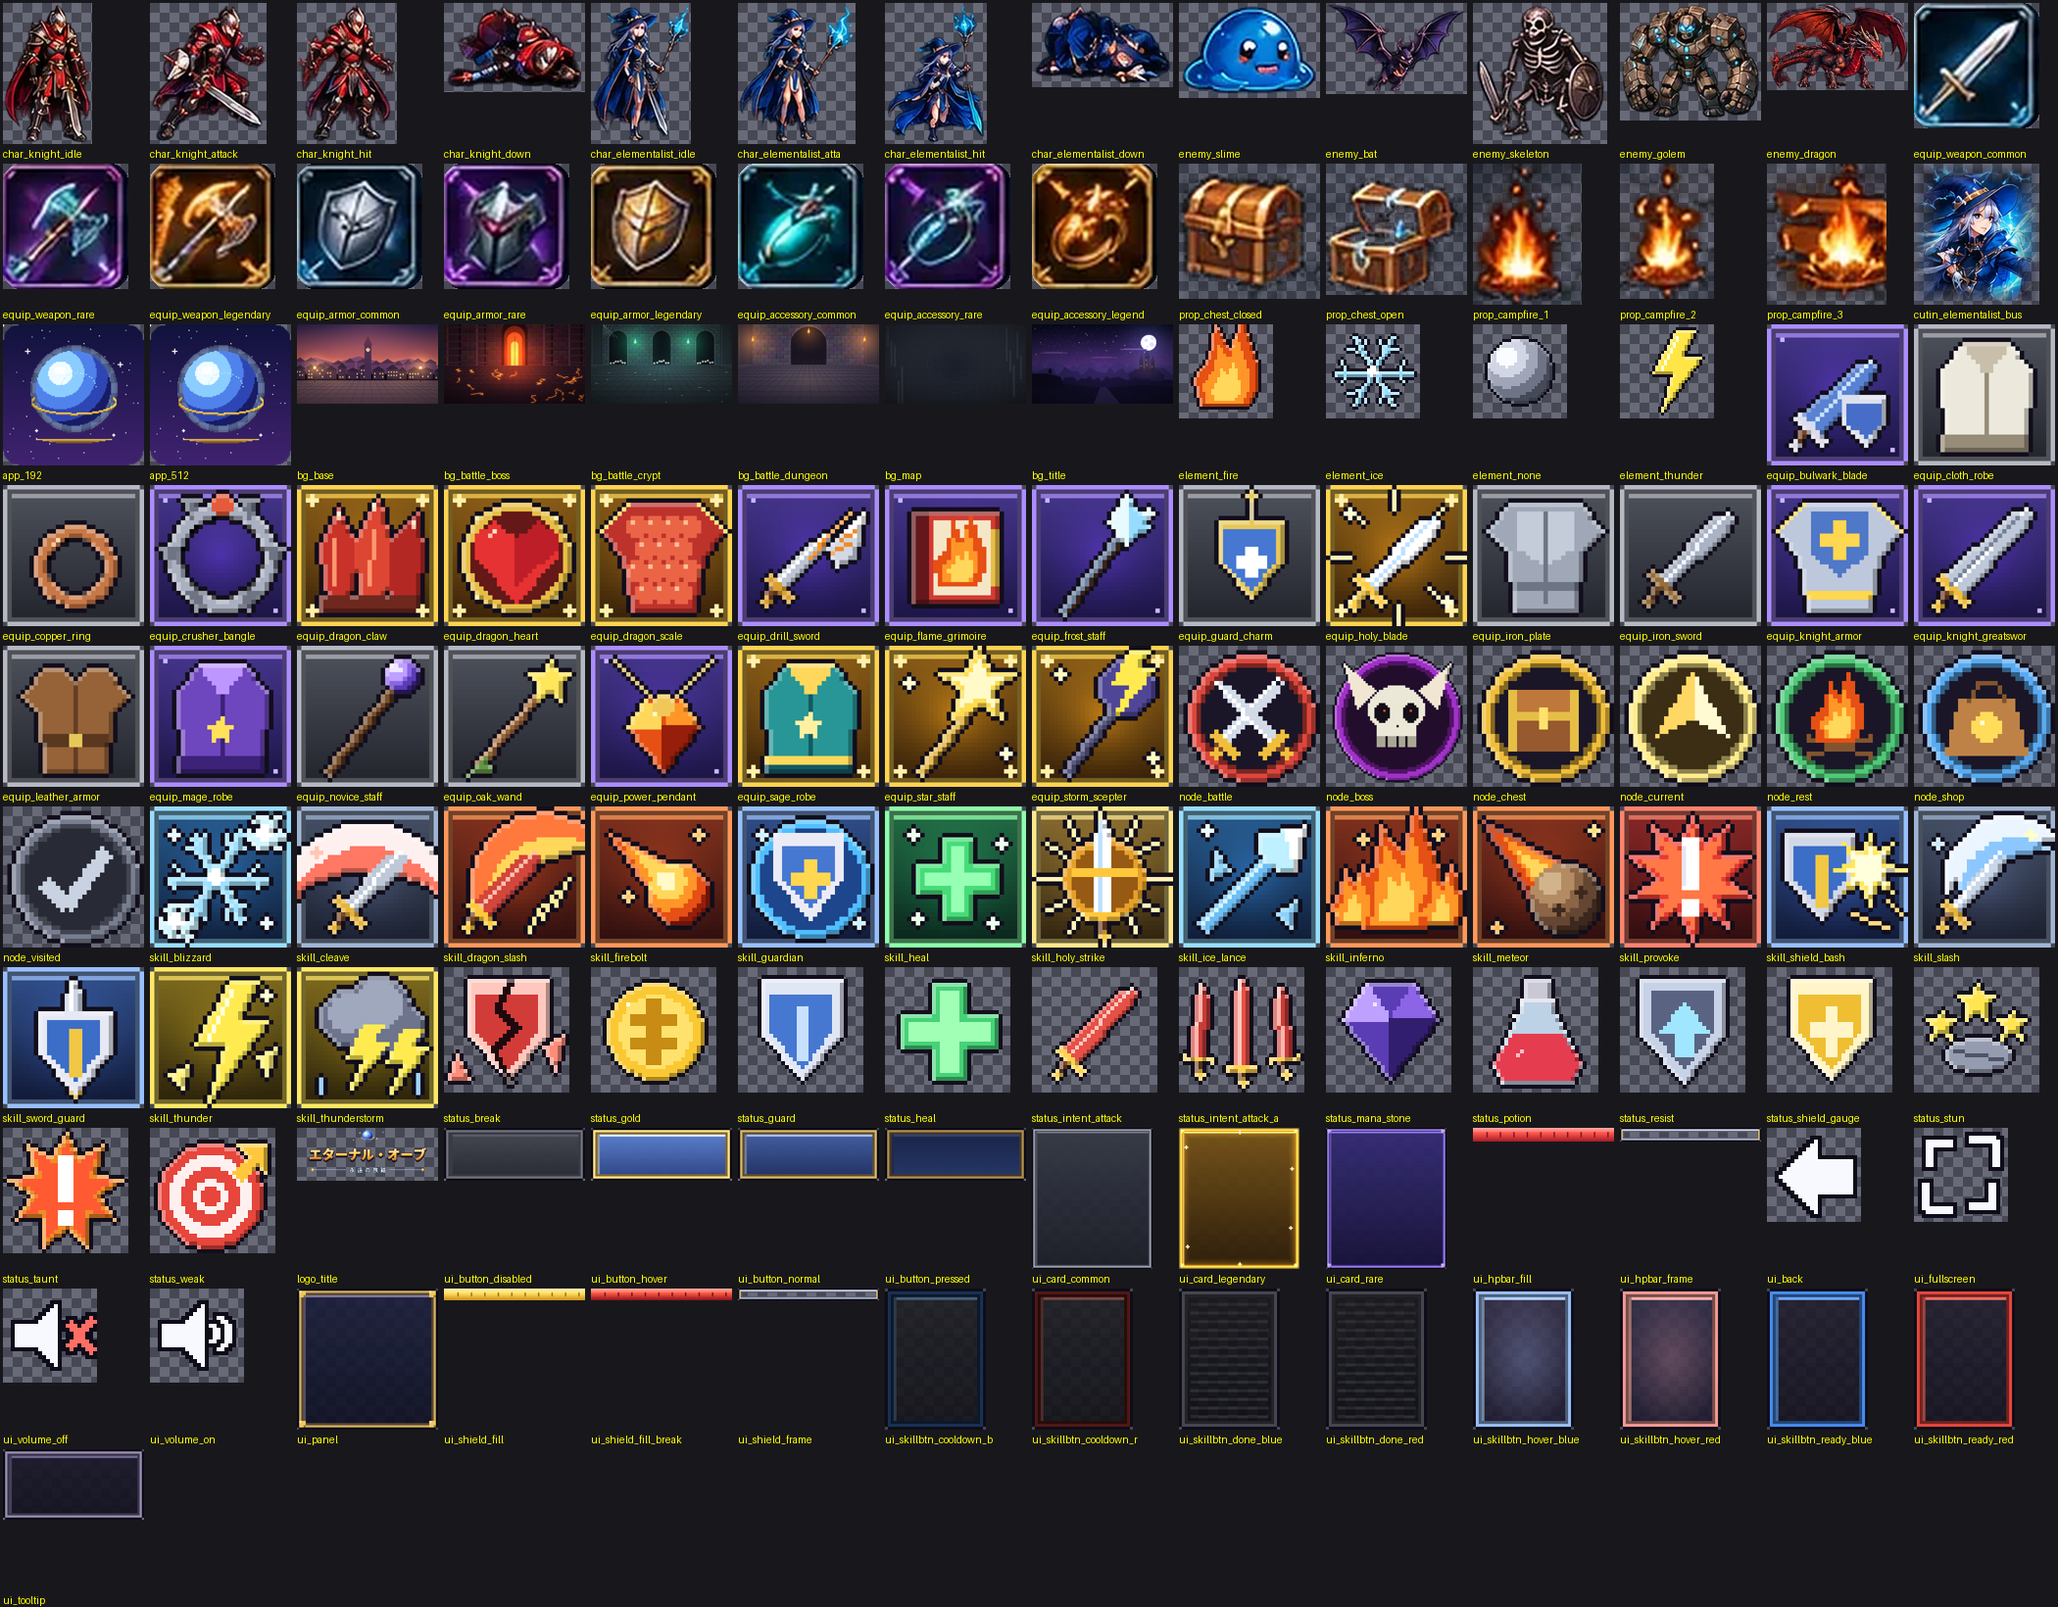
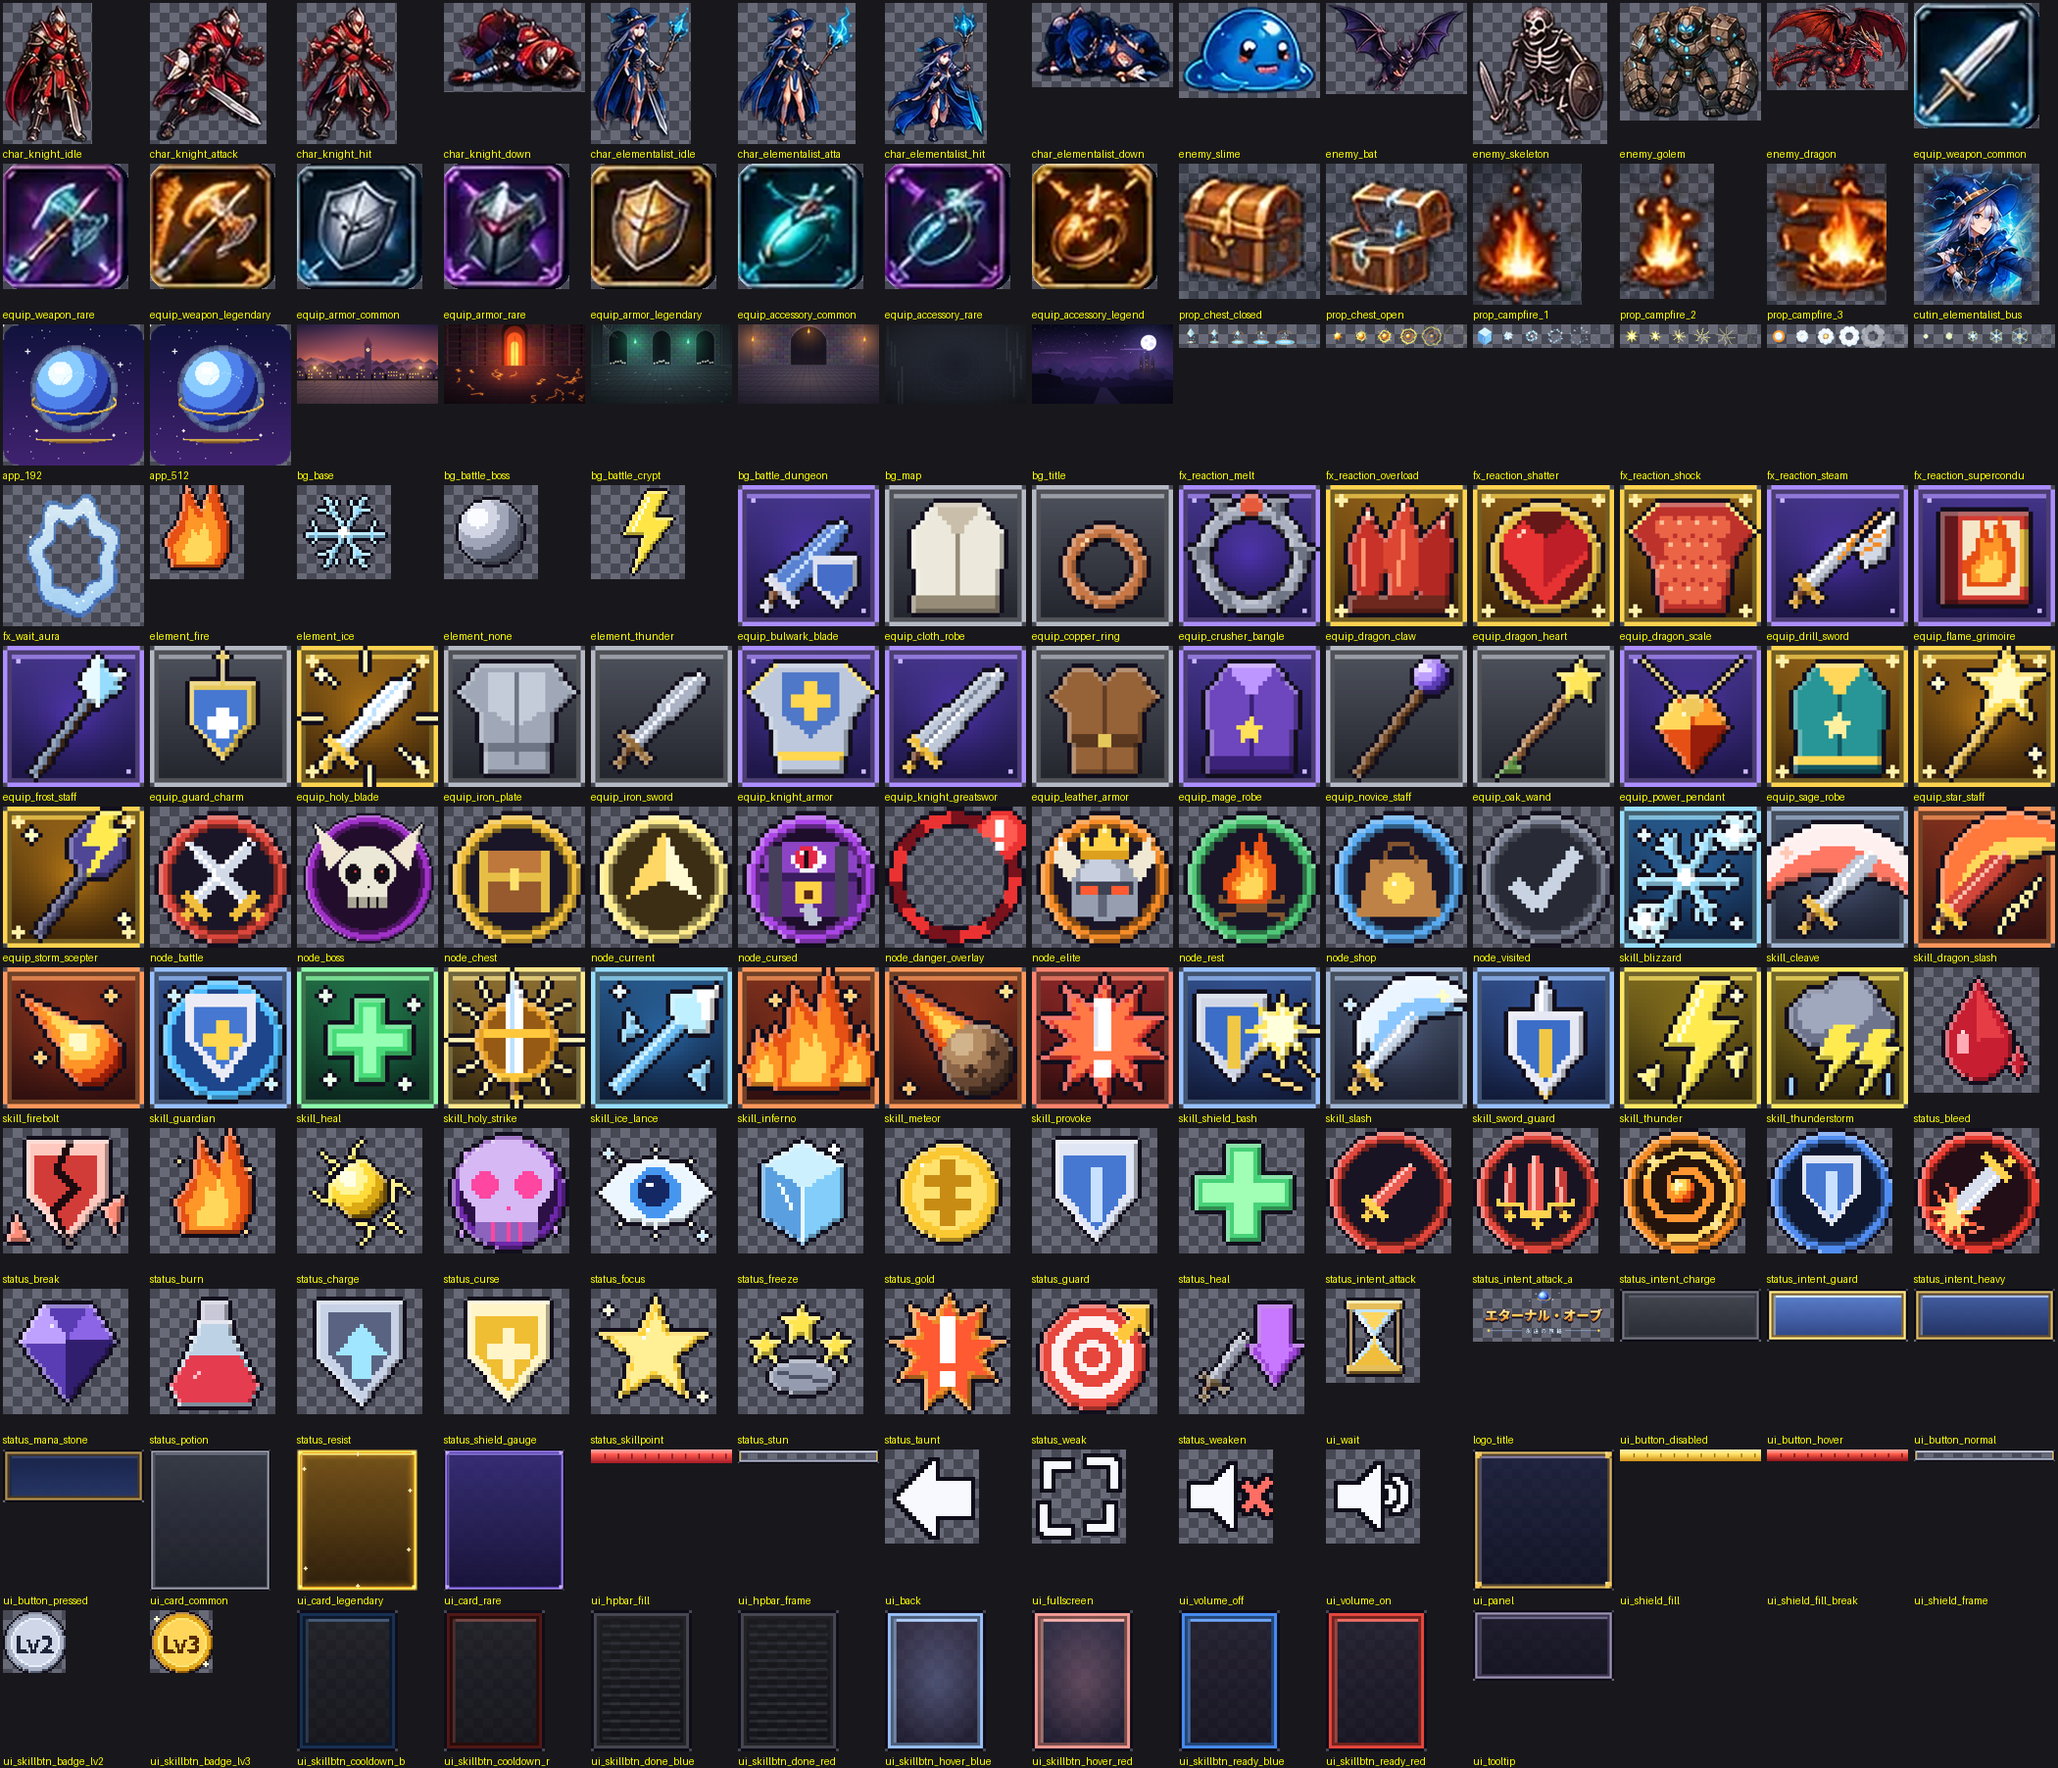
追加画像素材を反映: ノード/予告/状態/反応エフェクト/待機/Lvバッジ
Claude-Session: https://claude.ai/code/session_01PUrzdwixHQ16RLQNFRCr9D

diff --git a/src/scenes/BattleScene.ts b/src/scenes/BattleScene.ts
@@ -260,7 +260,9 @@ export class BattleScene extends Phaser.Scene {
     const h = compact() ? 34 : 28;
     const bg = this.add.graphics();
     const label = txt(this, 0, 0, '待機', compact() ? 17 : 14, '#fff', { fontStyle: 'bold' }).setOrigin(0.5);
-    const c = this.add.container(x, y, [bg, label]).setSize(w, h);
+    const waitIcon = hasImg(this, 'icon_ui_wait') ? this.add.image(-w / 2 + 16, 0, 'icon_ui_wait').setDisplaySize(h - 8, h - 8) : null;
+    if (waitIcon) label.setX(10);
+    const c = this.add.container(x, y, [bg, label, ...(waitIcon ? [waitIcon] : [])]).setSize(w, h);
     const paint = (hover: boolean) => {
       const ok = !this.busy && canWait(this.state, member);
       bg.clear();
@@ -282,6 +284,29 @@ export class BattleScene extends Phaser.Scene {
     });
     this.waitBtns.push(c);
     paint(false);
+  }
+
+  /** アイコンが一瞬ふくらんで消える */
+  private iconPop(key: string, x: number, y: number, size: number): void {
+    if (!hasImg(this, key)) return;
+    const im = this.add.image(x, y, key).setDisplaySize(size, size).setDepth(3000).setAlpha(0);
+    this.tweens.add({ targets: im, alpha: 1, y: y - 40, duration: 260, onComplete: () => this.tweens.add({ targets: im, alpha: 0, duration: 500, onComplete: () => im.destroy() }) });
+  }
+
+  /** 横並びスプライトシート(256×256×N)のエフェクトを1回再生する。画像が無ければ何もしない */
+  private playFx(key: string, x: number, y: number, scale: number): void {
+    if (!hasImg(this, key)) return;
+    const tex = this.textures.get(key);
+    const src = tex.getSourceImage() as HTMLImageElement;
+    const n = Math.max(1, Math.floor(src.width / src.height));
+    const fs = src.height;
+    for (let i = 0; i < n; i++) if (!tex.has(String(i))) tex.add(String(i), 0, i * fs, 0, fs, fs);
+    const im = this.add.image(x, y, key, '0').setScale(scale).setDepth(2700).setBlendMode(Phaser.BlendModes.ADD);
+    let f = 0;
+    this.time.addEvent({
+      delay: 70, repeat: n - 1,
+      callback: () => { im.setFrame(String(Math.min(f, n - 1))); f += 1; if (f >= n) this.time.delayedCall(70, () => im.destroy()); },
+    });
   }
 
   private doWait(member: number): void {
@@ -323,7 +348,9 @@ export class BattleScene extends Phaser.Scene {
       align: cmp ? 'center' : 'left', fontStyle: cmp ? 'bold' : 'normal', wordWrap: { width: BTN_W - 14, useAdvancedWrap: true },
     }).setOrigin(0.5, 0);
     const status = txt(this, 0, BTN_H / 2 - 16, '', 13, '#fff', { fontStyle: 'bold' }).setOrigin(0.5);
-    const c = this.add.container(x, BTN_Y, [bg, ...(icon ? [icon] : []), title, chip, chipText, cd, body, status]).setSize(BTN_W, BTN_H);
+    const badgeKey = level >= 3 ? 'ui_skillbtn_badge_lv3' : level === 2 ? 'ui_skillbtn_badge_lv2' : '';
+    const badge = badgeKey && hasImg(this, badgeKey) ? this.add.image(BTN_W / 2 - 18, -BTN_H / 2 + 18, badgeKey).setDisplaySize(32, 32) : null;
+    const c = this.add.container(x, BTN_Y, [bg, ...(icon ? [icon] : []), ...(badge ? [badge] : []), title, chip, chipText, cd, body, status]).setSize(BTN_W, BTN_H);
     c.setInteractive({ useHandCursor: true });
     const btn: SkillBtn = { member, skill: baseSkill, c, bg, status, w: BTN_W, hover: false };
     this.buttons.push(btn);
@@ -507,7 +534,8 @@ export class BattleScene extends Phaser.Scene {
     const ring = kind === 'heavy' ? 0xff2d2d : kind === 'charge' ? 0xffa23c : kind === 'guard' ? 0x6fa8ff : 0xff5c5c;
     g.lineStyle(kind === 'heavy' ? 6 : 3, ring, 1).strokeCircle(0, 0, kind === 'heavy' ? 38 : 34);
     if (kind === 'attack' || kind === 'heavy') {
-      const iconKey = it.target === 'all' ? 'icon_status_intent_attack_all' : 'icon_status_intent_attack';
+      const iconKey = kind === 'heavy' && hasImg(this, 'icon_status_intent_heavy') ? 'icon_status_intent_heavy'
+        : it.target === 'all' ? 'icon_status_intent_attack_all' : 'icon_status_intent_attack';
       if (hasImg(this, iconKey)) this.intentImg.setTexture(iconKey).setDisplaySize(50, 50).setVisible(true);
       else drawSword(g, 0, 0, 52, 0xff8a8a);
       this.intentValue.setText(String(intentValue(s, it))).setColor(kind === 'heavy' ? '#ff5c5c' : '#ff9a9a').setFontSize(kind === 'heavy' ? 28 : 24);
@@ -515,12 +543,14 @@ export class BattleScene extends Phaser.Scene {
       if (kind === 'heavy') this.intentHint.setText('ブレイクで阻止!').setColor('#ffe066');
       else if (next.kind === 'heavy' || next.kind === 'charge') this.intentHint.setText(`次→${next.name}`).setColor('#ffb86b');
     } else if (kind === 'charge') {
-      drawSword(g, 0, 0, 40, 0xffa23c);
+      if (hasImg(this, 'icon_status_intent_charge')) this.intentImg.setTexture('icon_status_intent_charge').setDisplaySize(50, 50).setVisible(true);
+      else drawSword(g, 0, 0, 40, 0xffa23c);
       this.intentValue.setText('溜め').setColor('#ffb86b').setFontSize(22);
       this.intentLabel.setText(`${it.name} → 次は${next.name}`);
       this.intentHint.setText('溜め中にブレイクで両方阻止').setColor('#ffe066');
     } else {
-      drawShield(g, 0, 0, 40, 0x6fa8ff);
+      if (hasImg(this, 'icon_status_intent_guard')) this.intentImg.setTexture('icon_status_intent_guard').setDisplaySize(50, 50).setVisible(true);
+      else drawShield(g, 0, 0, 40, 0x6fa8ff);
       this.intentValue.setText(`+${it.guard ?? 0}`).setColor('#9cc7ff').setFontSize(24);
       this.intentLabel.setText(`${it.name}(防御)`);
       this.intentHint.setText(`次→${next.name}`).setColor('#ffb86b');
@@ -845,6 +875,7 @@ export class BattleScene extends Phaser.Scene {
         const col = this.state.enemy.lastElement ? ELEMENT_COLOR[this.state.enemy.lastElement] : 0xffe066;
         audio.play('hit_weak');
         this.popup(ENEMY.x, ENEMY.y - 215, e.name + '!', '#ffffff', 44);
+        this.playFx(`fx_reaction_${e.id}`, ENEMY.x, ENEMY.y - 100, 1.6);
         this.shockwave(ENEMY.x, ENEMY.y - 90, col);
         this.sparks(ENEMY.x, ENEMY.y - 90, col, 24);
         break;
@@ -853,6 +884,7 @@ export class BattleScene extends Phaser.Scene {
         const [label, color] = STATUS_TEXT[e.kind];
         const pos = e.kind === 'charge' || e.kind === 'focus' ? { x: HERO_POS[0].x, y: HERO_POS[0].y - 250 } : { x: ENEMY.x + 90, y: ENEMY.y - 170 };
         this.popup(pos.x, pos.y, label, color, 28);
+        this.iconPop(`icon_status_${e.kind}`, pos.x - 70, pos.y, 40);
         break;
       }
       case 'dot':
@@ -863,6 +895,10 @@ export class BattleScene extends Phaser.Scene {
       case 'wait':
         audio.play('ui_select');
         this.popup(HERO_POS[e.member].x, HERO_POS[e.member].y - 230, '待機…', '#9cc7ff', 30);
+        if (hasImg(this, 'fx_wait_aura')) {
+          const a = this.add.image(HERO_POS[e.member].x, HERO_POS[e.member].y - 110, 'fx_wait_aura').setDepth(2400).setScale(1.3).setAlpha(0);
+          this.tweens.add({ targets: a, alpha: 0.95, scale: 1.7, duration: 280, yoyo: true, onComplete: () => a.destroy() });
+        }
         break;
       case 'enemyCharge':
         audio.play('en_dragon_claw');

diff --git a/src/scenes/MapScene.ts b/src/scenes/MapScene.ts
@@ -72,7 +72,9 @@ export class MapScene extends Phaser.Scene {
         c.add([g, txt(this, 0, 0, isVisited && n.id !== run.current ? '✓' : NODE_GLYPH[n.type], n.type === 'boss' ? 28 : 20, '#ffffff', { fontStyle: 'bold' })
           .setOrigin(0.5).setAlpha(isAvail || isVisited ? 1 : 0.5)]);
       }
-      if (n.danger && !isVisited) {
+      if (n.danger && !isVisited && hasImg(this, 'icon_node_danger_overlay')) {
+        c.add(this.add.image(0, 0, 'icon_node_danger_overlay').setDisplaySize(r * 2 + 22, r * 2 + 22));
+      } else if (n.danger && !isVisited) {
         const warn = this.add.graphics();
         warn.lineStyle(4, 0xff2d2d, 1).strokeCircle(0, 0, r + 6);
         c.add([warn, txt(this, r - 2, -r + 2, '!', 18, '#ff2d2d', { fontStyle: 'bold', stroke: '#fff', strokeThickness: 3 }).setOrigin(0.5)]);
@@ -99,7 +101,7 @@ export class MapScene extends Phaser.Scene {
     hudLine(110, 'icon_status_gold', `ゴールド  ${run.gold} G`, '#ffe066');
     hudLine(136, 'icon_status_mana_stone', `魔導石  ${run.stones}`, '#7fe9ff');
     hudLine(162, 'icon_status_potion', `ポーション ×${run.potions}`, '#7be495');
-    txt(this, 30, 186, `スキルポイント  ${run.skillPoints} SP`, 16, '#ffd9a0');
+    hudLine(186, 'icon_status_skillpoint', `スキルポイント  ${run.skillPoints} SP`, '#ffd9a0');
     const bars = this.add.graphics();
     run.party.forEach((m, i) => {
       const y = 240 + i * 64;
@@ -111,7 +113,8 @@ export class MapScene extends Phaser.Scene {
     });
 
     const journey = [run.mods ? `今回の旅: ${run.mods.name}` : '', run.curse ? `呪い ×${run.curse}(最大HP-${run.curse * 10}%)` : ''].filter(Boolean).join('\n');
-    if (journey) txt(this, 30, 348, journey, 13, '#ffb86b', { wordWrap: { width: 220, useAdvancedWrap: true } });
+    if (run.curse && hasImg(this, 'icon_status_curse')) this.add.image(42, 360, 'icon_status_curse').setDisplaySize(24, 24);
+    if (journey) txt(this, run.curse && hasImg(this, 'icon_status_curse') ? 56 : 30, 348, journey, 13, '#ffb86b', { wordWrap: { width: 220, useAdvancedWrap: true } });
     makeButton(this, 141, 410, 220, 44, '装備を確認', () => this.scene.start('Gear'), { size: 18 });
     makeButton(this, 141, 522, 220, 44, `スキル強化  ${run.skillPoints}SP`, () => this.scene.start('Skills'), {
       size: 18, color: 0xffd166, enabled: true,
